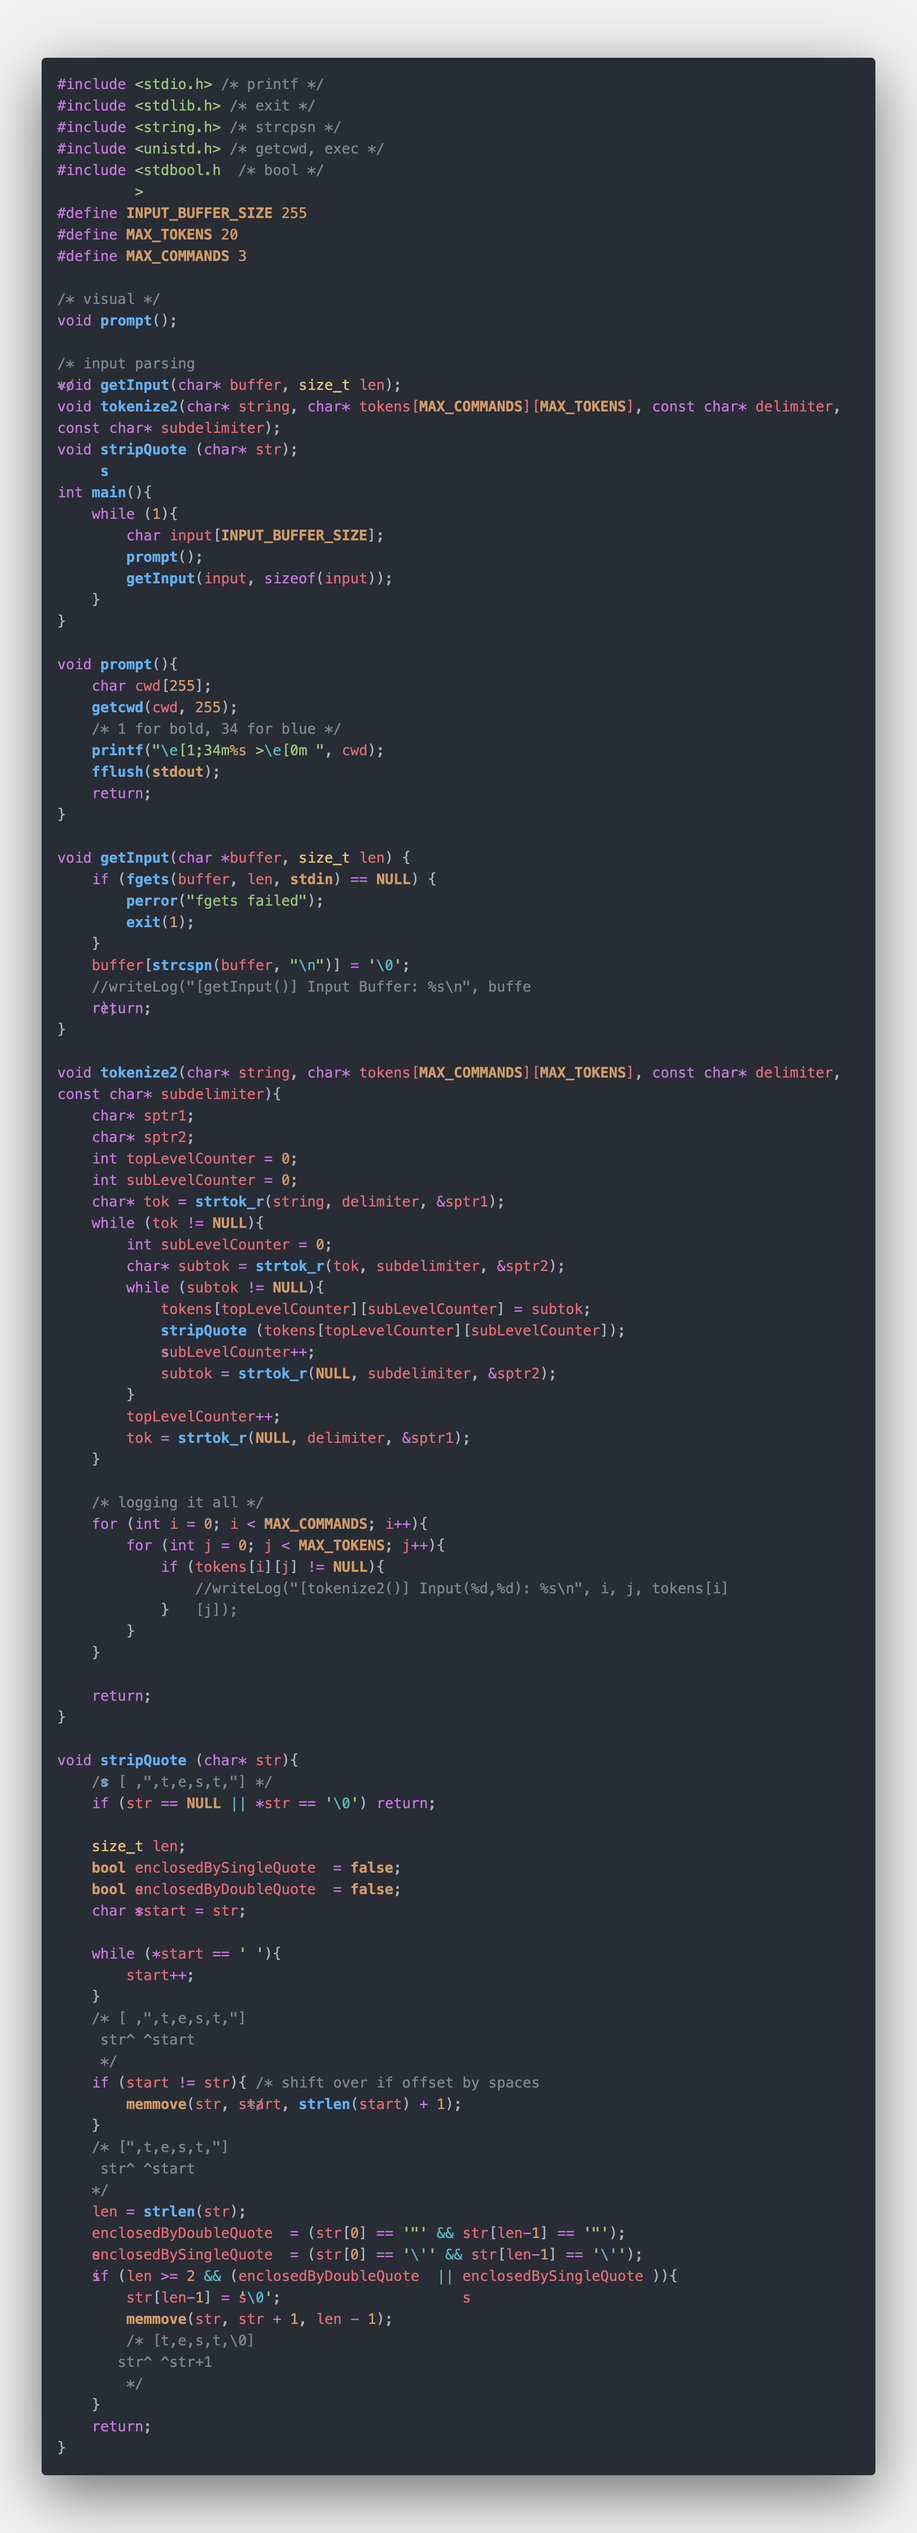
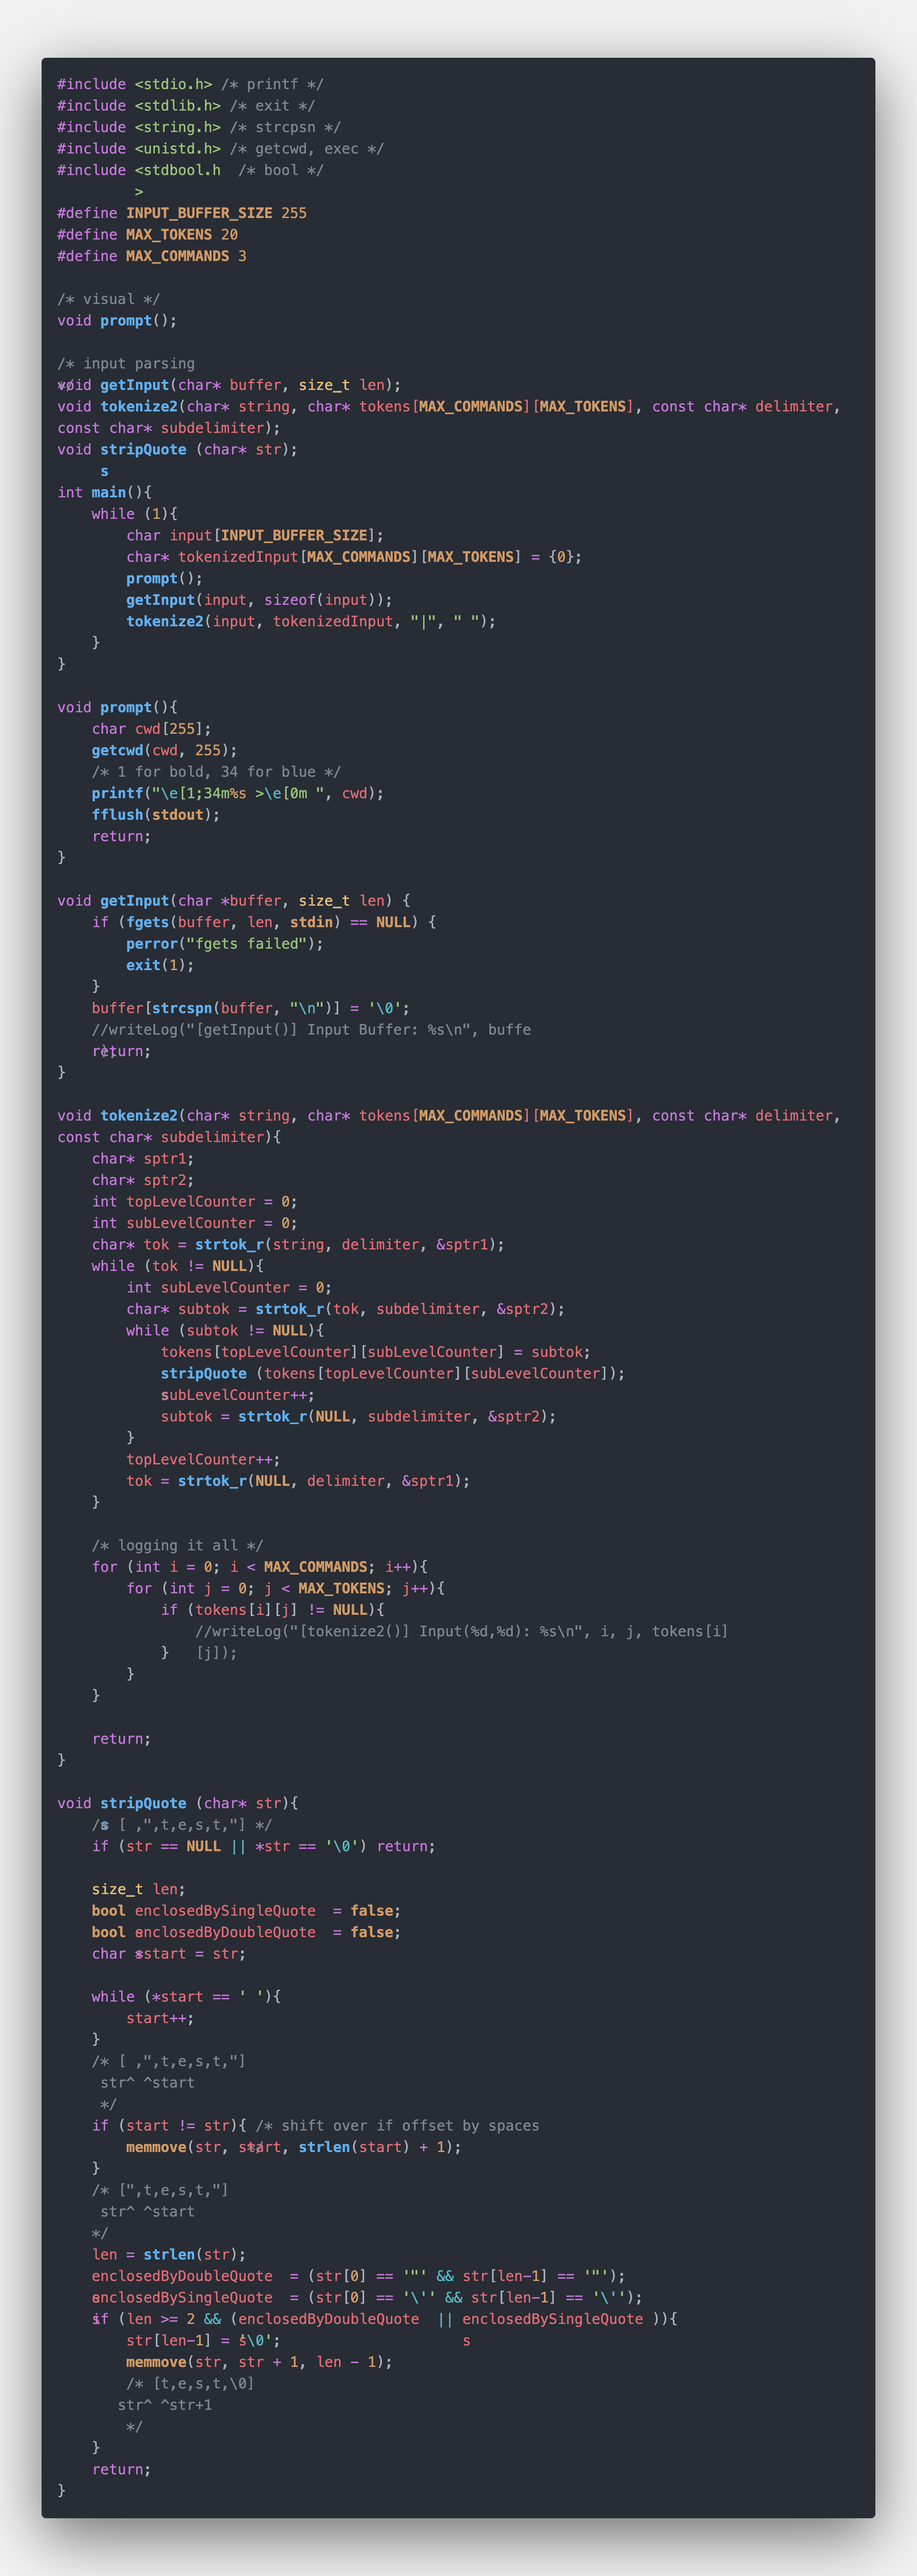
writing finished for now on shell lab

diff --git a/_posts/2025-10-14-sys-II-shell-lab.md b/_posts/2025-10-14-sys-II-shell-lab.md
@@ -27,7 +27,7 @@ Below is a diagram of process structure in Unix. You can see the different secti
 
 In this assignment, we are tasked with creating a shell that can handle a line like: 
 ```
-command [indentifier[identifier]]
+command [identifier[identifier]]
 ```
 and parse argv from that. We can then use `execvp()` to execute the file that contains the command. Then, `execvp()` will search for that file in the paths specified by the `$PATH` environment variable. 
 
@@ -49,8 +49,31 @@ So, we define the buffer, and pass it and its length to fgets, also error checki
 
 As you can see, there are a few other things I needed to include to make the behavior as safe as I could. Also, don't mind the writeLog() call. When doing this project on my own, I realized how useful it was to have a logfile so I could trace back the shell's behavior when it went wrong.
 
-Now though, we have input from the user, but we need to parse it into something useful. This can be done by a string tokenization function called `strtok`. However, we need to tokenize by 2 delimiters: first by separating the commands from each other (delimited by `|`), and second separating the tokens from each other within each command (delimited by ` `). With this pattern, it is probably easier to use `strtok_r`, another niche tokenization function that does the same thing as `strtok` but is passed an extra pointer to keep it from executing some odd behavior. You can read more [here](https://systems-encyclopedia.cs.illinois.edu/articles/c-strtok/).
+Now though, we have input from the user, but we need to parse it into something useful. This can be done by a string tokenization function called `strtok`. However, we need to tokenize by 2 delimiters: first by separating the commands from each other (delimited by `|`), and second separating the tokens from each other within each command (delimited by a space). With this pattern, it is probably easier to use `strtok_r`, another niche tokenization function that does the same thing as `strtok` but is passed an extra pointer to keep it from executing some odd behavior. You can read more [here](https://systems-encyclopedia.cs.illinois.edu/articles/c-strtok/).
 
-<img src="/assets/img/sys-II-shell-lab-code-2.png" alt="Code 1" class="project-image-code">
+<img src="/assets/img/sys-II-shell-lab-code-2.png" alt="Code 2" class="project-image-code">
+
+Great! So now we have a prompt, and tokenized input. The only thing to do now is say what we're going to do with the tokenized input. We tokenized it like this:
+```
+[token from cmd 1][token from cmd 1]...[NULL]
+[token from cmd 2][NULL][NULL]...[NULL]
+[token from cmd 3][token from cmd 3]...[NULL]
+```
+We have a 3x20 array that holds 20 tokens in each row, designating a command, and 3 rows, because we have only a maximum of 3 commands to worry about. If we had input `ls | grep "test" | wc` then we would have parsed:
+```
+[ls][NULL]...[NULL]
+[grep]["test"][NULL]...[NULL]
+[wc][NULL]...[NULL]
+```
+Note that `"test"` would actually be parsed as `test` due to the `stripQuotes()` function call. In simple terms, we need to fork a child process for each command, and then `execvp()` that command, passing the tokens as arguments. We can name the top level function that just takes in the tokenizedInput `delegateProcesses()`. This function will have to do a lot of heavy lifting, so let's modularize our work. First, we can check if the process is a background process (ending with `&`), so that can be its own function: `checkBackground()`. Then, if appropriate, we will have to create the pipes that connect the input and output of commands, using `createPipes()`. Those pipes are useless though, until we create the processes that will run each command using `createProcesses()`. The pipes are still not operational, they need to be "hooked up" to each process in the right way, let's do this in `redirectIO()`. The processes aren't doing anything yet, they need to actually `exec()` the commands, so let's make them do that with `execCommand()`. Lastly we need to close all the pipes in the parent, so that undefined behavior doesn't occur. We can do this in `closeAllPipes().` Lastly, we need to wait for each child process in the parent process, but I didn't decide to do this inside a function, I just call a for loop that calls `waitpid()` for each process. This all is done in the code that follows:
+
+<img src="/assets/img/sys-II-shell-lab-code-3.png" alt="Code 3" class="project-image-code">
+
+The last thing to do after this is ensure a user can't `Ctrl-C` out of the program, and must use `exit` from the command line to leave. An acceptable way to do this is to set up a signal handler that does nothing, thus ignoring the SIG_INT signal from Ctrl-C, but I went a little overboard and tried to emulate the behavior I see from my own terminal: going to the next line, and spawning a new prompt. To do this, I needed to stop `^C` from showing up on the line when I hit those keys. The way I did this is to save the terminal's settings, turn off the terminal's `ECHOCTL` (echo control characters) setting, and restore the terminal's settings when I was done. I did this with the `startRawMode()`, `endRawMode()` and `setup()` helper functions.
+
+Lastly, without `^C` to exit the program, we would need to handle our alternative: typing "exit" in our shell. I did this with a `checkExit()` function.
+
+Below is the final code for these specifications of the lab. There are optional pieces to the assignment I haven't introduced yet, such as a working `history` command, and using the up and down arrow keys to control that command.
 
 
+<img src="/assets/img/sys-II-shell-lab-code-4.png" alt="Code 4" class="project-image-code">
